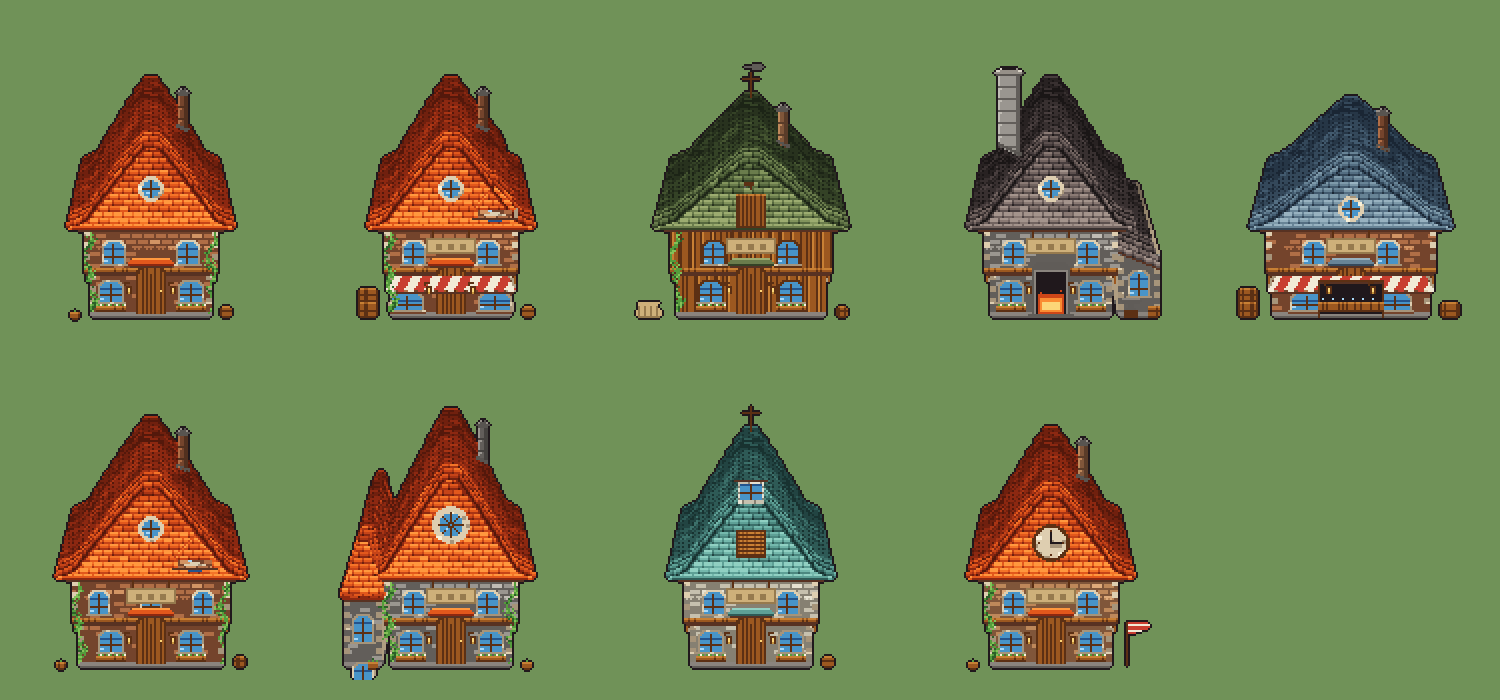
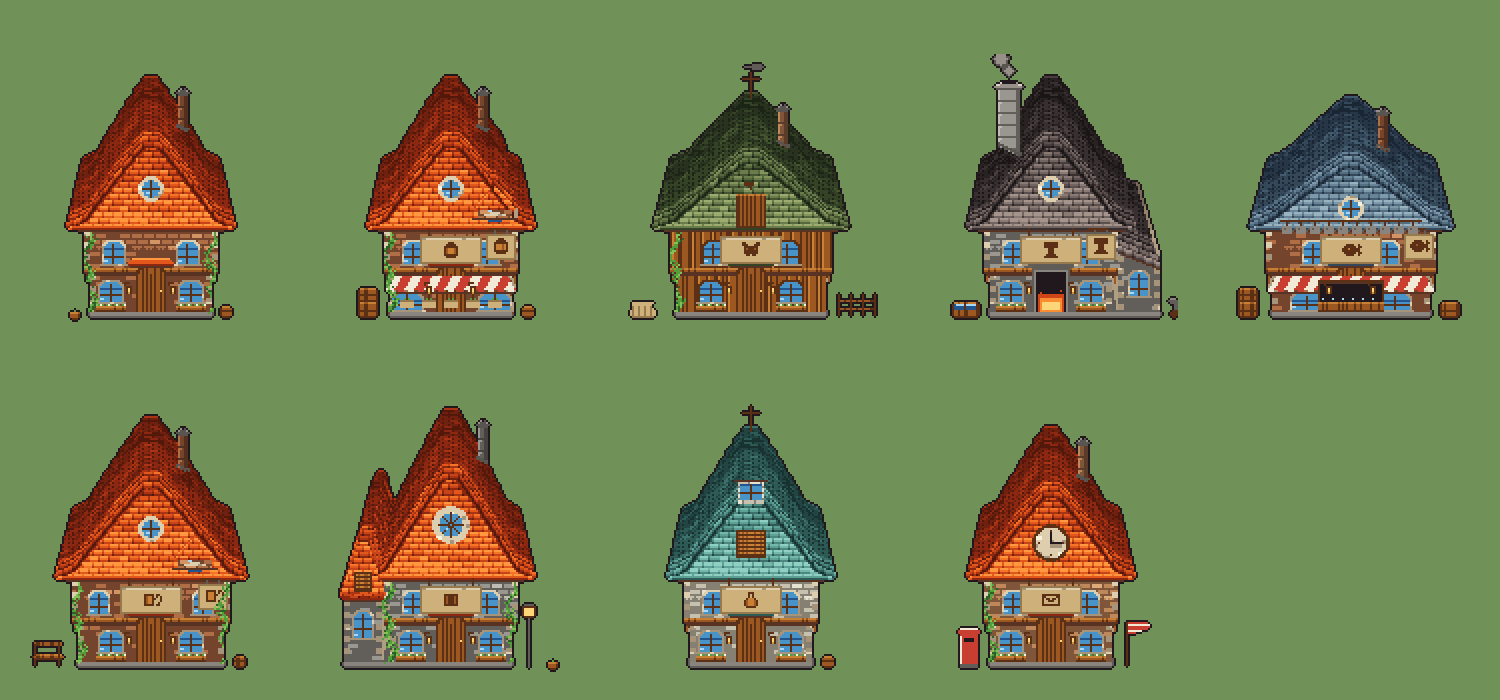
무슨 집인지 보이게 — 간판 그림과 그 집의 물건
색과 실루엣을 갈라도 「저건 대장간이다」는 안 보였다. 그건 재료가 아니라
**간판 그림과 문 앞의 물건**이 말한다. 마을에서 길 찾을 때 사람이 실제로
보는 게 그 둘이다.

간판 그림은 11x8칸 = 화면 22x16px. 이 크기에서 읽히려면 **덩어리 하나**로
그려야 한다 — 선으로 그리면 다 뭉개진다. 여덟 개를 그렸다:
망치 · 항아리 · 소 · 생선 · 맥주잔 · 책 · 플라스크 · 편지.
가게에는 벽에서 팔이 나온 **걸이 간판**도 달았다.

집마다 그 집의 물건을 놓았다:
  대장간    벌건 화구 + 굴뚝 연기 + 모루 + 담금질통 + 작업 곁채
  목장상회  울타리 + 건초더미 + 풍향계 + 다락문
  수산시장  문 대신 판매대 + 처마 밑에 널어 말리는 생선
  잡화점    차양 밑에 매달린 바구니 + 쌓아 둔 궤짝
  여관      문 앞 긴 의자
  도서관    가로등 (밤에 책 읽는 집) + 종탑 살창
  우체국    우체통 + 박공 시계 + 깃발
  연구소    옥탑 채광창 + 풍향계 (담쟁이 없음 — 깔끔해야 한다)
  우리집    간판이 없는 유일한 집

**옆으로 늘어난 만큼 주춧돌을 하나로 이었다.** 곁채·탑마다 따로 두면 밑에
틈이 생겨 두 채를 나란히 세운 것처럼 보인다 — 한 채의 집은 한 장의 땅 위에 선다.

두 군데가 캔버스 밖으로 나갔다: 탑 아래층 창이 주춧돌을 뚫고 땅속에 묻혔고,
대장간 연기가 화면 위로 잘렸다. 창은 한 층만, 굴뚝은 일곱 칸 낮췄다.

diff --git a/game/assets/ref/make_buildings.js b/game/assets/ref/make_buildings.js
@@ -729,13 +729,139 @@ function barrel(g, x, y) {
 }
 
 
-function sign(g, cx) {
-  const w = 24, x0 = cx - w / 2, y = EAVE + 5;
-  g.vline(x0 + 3, y - 4, y, 'T');
-  g.vline(x0 + w - 3, y - 4, y, 'T');
-  g.rect(x0, y, x0 + w, y + 7, 'B');
-  g.rect(x0 + 1, y + 1, x0 + w - 1, y + 6, 'b');
-  for (let i = 0; i < 3; i++) g.rect(x0 + 5 + i * 6, y + 3, x0 + 7 + i * 6, y + 5, 'B');
+// ---- 무슨 집인지 말하는 것들 ----
+//
+// 색과 실루엣을 갈라도 「저건 대장간이다」는 아직 안 보였다. 그건 재료가
+// 아니라 **간판 그림과 문 앞의 물건**이 말한다. 마을에서 길을 찾을 때
+// 사람이 실제로 보는 건 그 둘이다.
+//
+// 그림은 11x8칸 = 화면 22x16px. 이 크기에서 읽히려면 **덩어리 하나**로
+// 그려야 한다 — 선으로 그리면 다 뭉개진다.
+const ICON = {
+  hammer: ['..#######..', '..#######..', '..#######..', '....###....',
+           '....###....', '....###....', '...#####...', '..#######..'],
+  jar:    ['....###....', '...#####...', '..#######..', '..#ooooo#..',
+           '..#ooooo#..', '..#ooooo#..', '..#######..', '...#####...'],
+  cow:    ['.##.....##.', '.###...###.', '..#######..', '..#o###o#..',
+           '..#######..', '..#######..', '...##.##...', '...........'],
+  fish:   ['...........', '...####..#.', '..######.##', '.###o#####.',
+           '.#########.', '..######.##', '...####..#.', '...........'],
+  mug:    ['...........', '..#####.##.', '..#ooo#.#.#', '..#ooo##..#',
+           '..#ooo#...#', '..#ooo#..#.', '..#####.##.', '...........'],
+  book:   ['...........', '..#######..', '..#o###o#..', '..#o###o#..',
+           '..#o###o#..', '..#o###o#..', '..#######..', '...........'],
+  flask:  ['....###....', '....#.#....', '....#.#....', '...#ooo#...',
+           '..#ooooo#..', '..#ooooo#..', '..#ooooo#..', '...#####...'],
+  letter: ['...........', '.#########.', '.##.....##.', '.#.##.##.#.',
+           '.#..###..#.', '.#.......#.', '.#########.', '...........'],
+};
+
+function stampIcon(g, cx, cy, name, dark, lite) {
+  const a = ICON[name];
+  if (!a) return;
+  for (let y = 0; y < a.length; y++) for (let x = 0; x < a[y].length; x++) {
+    const c = a[y][x];
+    if (c === '.') continue;
+    g.px(cx - 5 + x, cy - 4 + y, c === 'o' ? lite : dark);
+  }
+}
+
+function sign(g, cx, icon) {
+  const w = 30, x0 = cx - w / 2, y = EAVE + 4;
+  g.vline(x0 + 4, y - 4, y, 'T');
+  g.vline(x0 + w - 4, y - 4, y, 'T');
+  g.rect(x0, y, x0 + w, y + 13, 'B');
+  g.rect(x0 + 1, y + 1, x0 + w - 1, y + 12, 'b');
+  g.hline(x0 + 1, x0 + w - 1, y + 1, 'x');                 // 판 윗변이 빛을 받는다
+  stampIcon(g, cx, y + 7, icon, 'T', 'u');
+}
+
+// 걸이 간판 — 벽에서 팔이 나와 판이 매달린다. 가게라는 표시로 이만한 게 없다
+function hangSign(g, x, y, icon) {
+  g.hline(x, x + 9, y, 'T');                               // 팔
+  g.px(x + 1, y + 1, 'T'); g.px(x + 2, y + 1, 'T');        // 버팀대
+  g.vline(x + 3, y + 1, y + 2, 'S'); g.vline(x + 9, y + 1, y + 2, 'S');
+  g.rect(x - 1, y + 3, x + 13, y + 15, 'B');
+  g.rect(x, y + 4, x + 12, y + 14, 'b');
+  stampIcon(g, x + 6, y + 9, icon, 'T', 'u');
+}
+
+// 연기 — 굴뚝에서 오르는 것. 대장간은 늘 불을 때고 있다
+function smoke(g, x, y) {
+  const puff = (px, py, r) => {
+    for (let dy = -r; dy <= r; dy++) for (let dx = -r; dx <= r; dx++)
+      if (Math.hypot(dx, dy) <= r + 0.3)
+        g.px(px + dx, py + dy, Math.hypot(dx, dy) > r - 1 ? 'p5' : 'p4');
+  };
+  puff(x, y, 3); puff(x - 4, y - 6, 4); puff(x + 2, y - 13, 5);
+}
+
+// 담금질통 — 대장간 앞. 벌겋게 단 쇠를 식히는 물통
+function trough(g, x, y) {
+  g.rect(x, y - 7, x + 13, y, 't');
+  g.hline(x, x + 13, y - 7, 'u');
+  g.hline(x, x + 13, y, 'T');
+  g.rect(x + 1, y - 6, x + 12, y - 4, 'G');                // 물
+  g.hline(x + 2, x + 11, y - 6, 'e');
+  for (let i = x; i <= x + 13; i += 6) g.vline(i, y - 7, y, 'T');
+}
+
+// 울타리 — 목장 상회 앞. 가로 두 줄에 말뚝
+function fence(g, x0, x1, y) {
+  g.hline(x0, x1, y - 8, 't');
+  g.hline(x0, x1, y - 4, 't');
+  for (let x = x0; x <= x1; x += 6) { g.vline(x, y - 11, y, 'T'); g.px(x, y - 12, 'T'); }
+}
+
+// 널어 말리는 생선 — 수산시장. 이 한 줄이면 무슨 가게인지 끝난다
+function fishLine(g, x0, x1, y) {
+  g.hline(x0, x1, y, 'T');
+  for (let x = x0 + 3; x < x1; x += 7) {
+    g.vline(x, y + 1, y + 2, 'T');
+    g.rect(x - 2, y + 3, x + 2, y + 6, 's');
+    g.px(x - 3, y + 4, 'S'); g.px(x + 3, y + 5, 'S');      // 꼬리
+    g.px(x - 1, y + 4, 'S');                                // 눈
+  }
+}
+
+// 우체통 — 우체국 앞. 빨간 기둥에 투입구
+function mailbox(g, x, y) {
+  g.rect(x, y - 16, x + 8, y, 'A');
+  g.vline(x, y - 16, y, 'a');
+  g.rect(x - 1, y - 19, x + 9, y - 16, 'A');
+  g.hline(x - 1, x + 9, y - 19, 'a');
+  g.rect(x + 2, y - 14, x + 6, y - 13, 'O');               // 투입구
+  g.rect(x - 1, y - 1, x + 9, y, 'S');
+}
+
+// 가로등 — 도서관 앞. 밤에 책 읽는 집이라는 표시
+function lamppost(g, x, y) {
+  g.vline(x, y - 24, y, 'S');
+  g.rect(x - 1, y - 1, x + 1, y, 'S');
+  g.rect(x - 3, y - 30, x + 3, y - 25, 'T');
+  g.rect(x - 2, y - 29, x + 2, y - 26, 'y');
+  g.hline(x - 3, x + 3, y - 31, 'S');
+  g.px(x, y - 32, 'S');
+}
+
+// 긴 의자 — 여관 앞. 앉아 쉬는 집
+function bench(g, x, y) {
+  g.rect(x, y - 6, x + 15, y - 4, 't');
+  g.hline(x, x + 15, y - 6, 'u');
+  g.hline(x, x + 15, y - 4, 'T');
+  for (const i of [x + 1, x + 13]) g.vline(i, y - 3, y, 'T');
+  g.rect(x, y - 12, x + 15, y - 11, 't');                  // 등받이
+  for (const i of [x + 1, x + 13]) g.vline(i, y - 11, y - 6, 'T');
+}
+
+// 매달린 바구니 — 잡화점 차양 밑에 주렁주렁
+function baskets(g, x0, x1, y) {
+  for (let x = x0; x <= x1; x += 11) {
+    g.vline(x, y, y + 2, 'T');
+    g.rect(x - 3, y + 3, x + 3, y + 6, 'b');
+    g.hline(x - 3, x + 3, y + 3, 'B');
+    g.px(x - 1, y + 2, 'n'); g.px(x + 1, y + 2, 'n');      // 삐져나온 잎
+  }
 }
 
 
@@ -889,8 +1015,10 @@ function tower(g, cx, wallTop) {
   }
   g.hline(a - 2, b + 2, wallTop, 'R');
   g.hline(a - 1, b + 1, wallTop + 1, SHADE);
-  archWin(g, cx - 5, wallTop + 8, 11, 15, false);
-  archWin(g, cx - 5, wallTop + 32, 11, 15, false);
+  // 창은 **바닥선 안쪽에서** 끝나야 한다. 두 층으로 넣었더니 아래 창이
+  // 주춧돌을 뚫고 내려가 땅속에 반쯤 묻혔다
+  archWin(g, cx - 5, wallTop + 6, 11, 15, false);
+  louver(g, cx, rt + 15, 9, 9);                            // 종탑 살창
 }
 
 // 풍향계 — 용마루 위에 꽂는 것. 한 줄짜리지만 하늘로 삐죽 나와서
@@ -1111,17 +1239,27 @@ function build(spec) {
   }
 
   // ---- 실루엣을 가르는 덩어리 (extrude 앞에 — 뒤 지붕까지 같이 생긴다) ----
+  let footL = X0, footR = X1;                              // 발자국 좌우 끝
   if (spec.dormer) dormer(g, CX + 22, EAVE - 6);
   if (spec.lean) {
     const r = spec.lean === 'right';
-    leanTo(g, r ? X1 + JUT + 1 : X0 - JUT - 21, r ? X1 + JUT + 21 : X0 - JUT - 1,
-      MID - 16);
+    const a = r ? X1 + JUT + 1 : X0 - JUT - 21, b = r ? X1 + JUT + 21 : X0 - JUT - 1;
+    leanTo(g, a, b, MID - 16);
+    footL = Math.min(footL, a); footR = Math.max(footR, b);
   }
   if (spec.tower) {
     const r = spec.tower === 'right';
-    tower(g, r ? X1 + JUT + 11 : X0 - JUT - 11, EAVE + 10);
+    const c = r ? X1 + JUT + 11 : X0 - JUT - 11;
+    tower(g, c, EAVE + 10);
+    footL = Math.min(footL, c - 9); footR = Math.max(footR, c + 9);
   }
   if (spec.stall) stall(g, CX - 16, CX + 16, GROUND);
+  // 옆으로 늘어난 만큼 **주춧돌을 하나로 잇는다.** 덩어리마다 따로 두면
+  // 밑에 틈이 생겨서 두 채를 나란히 세워 놓은 것처럼 보인다 — 한 채의
+  // 집은 한 장의 땅 위에 선다
+  g.rect(footL, GROUND - 2, footR, GROUND, 'S');
+  g.rect(footL, GROUND - 2, footR, GROUND - 1, 's');
+  g.hline(footL - 1, footR + 1, GROUND, 'S');
 
   extrude(g);                                              // 뒤로 눕는 지붕
   if (spec.cupola) cupola(g, CX, RIDGE + 2);
@@ -1130,7 +1268,7 @@ function build(spec) {
   if (spec.chim !== 'none') {
     const big = spec.chim === 'big';
     chimney(g, spec.chimneyX !== undefined ? spec.chimneyX : CX + 14,
-      RIDGE - (big ? 40 : 30), RIDGE - (big ? 2 : 11), !big, big ? 11 : 5);
+      RIDGE - (big ? 33 : 30), RIDGE - (big ? 2 : 11), !big, big ? 11 : 5);
   }
 
   // ---- 살림 ----
@@ -1144,9 +1282,18 @@ function build(spec) {
     else if (kind === 'crate2') crate(g, px, GROUND - 8, 6);
     else if (kind === 'hay') hay(g, px, GROUND);
     else if (kind === 'anvil') anvil(g, px, GROUND);
+    else if (kind === 'trough') trough(g, px, GROUND);
+    else if (kind === 'mailbox') mailbox(g, px, GROUND);
+    else if (kind === 'lamppost') lamppost(g, px, GROUND);
+    else if (kind === 'bench') bench(g, px, GROUND);
+    else if (kind === 'fence') fence(g, px, px + 26, GROUND);
   }
   if (spec.flag) flag(g, X1 + JUT + 5, GROUND);
-  if (spec.sign) sign(g, CX);
+  if (spec.sign) sign(g, CX, spec.icon);
+  if (spec.hang) hangSign(g, X1 + JUT - 14, MID - 22, spec.icon);
+  if (spec.baskets) baskets(g, CX - 22, CX + 22, MID + 11);
+  if (spec.fishLine) fishLine(g, X0 + 4, X1 - 4, MID - 26);
+  if (spec.smoke) smoke(g, (spec.chimneyX || CX) + 5, RIDGE - 39);
   // 담쟁이는 **맨 마지막**에. 창틀·간판 위로 조금 넘어가야 자란 것처럼 보인다
   const iv = spec.ivy === undefined ? 2 : spec.ivy;
   if (iv >= 1) ivy(g, X0 - JUT + 2, GROUND - 3, EAVE + 3);
@@ -1172,44 +1319,47 @@ function build(spec) {
 //
 // props 의 숫자는 벽에서의 거리다. 음수면 왼쪽 벽 바깥, 양수면 오른쪽.
 const KINDS = {
-  // 우리집 — 기준. 담쟁이가 양쪽을 타고 오르고 창밑에 꽃상자.
-  // 아무 혹도 없는 게 우리집의 특징이다 (마을에서 제일 평범한 집)
+  // 우리집 — 간판이 없는 유일한 집. 담쟁이와 꽃상자
   house: { props: [['planter', -7], ['barrel', 2]] },
 
-  // 잡화점 — 넓은 줄무늬 차양에 진열창이 크다. 궤짝을 쌓아 뒀다
-  house_general: { sign: true, awning: 2, bigWin: true, ivy: 1, dormer: true,
+  // 잡화점 — 항아리 간판. 차양 밑에 바구니가 주렁주렁, 궤짝을 쌓아 뒀다
+  house_general: { sign: true, icon: 'jar', hang: true, awning: 2, bigWin: true,
+    baskets: true, dormer: true, ivy: 1,
     props: [['crate', -13], ['crate2', -13], ['barrel', 3]] },
 
-  // 목장 상회 — 널판 벽에 다락문. 헛간처럼 넓고 낮다. 옆에 건초더미
-  house_ranch: { sign: true, wall: 'plank', wallPal: 'warm', roofPal: 'moss',
-    w: 7, pitch: -8, gable: 'loft', ivy: 1, vane: true,
-    props: [['hay', -17], ['barrel', 3]] },
+  // 목장 상회 — 소 간판. 앞에 울타리와 건초더미. 널판 벽, 다락문, 풍향계
+  house_ranch: { sign: true, icon: 'cow', wall: 'plank', wallPal: 'warm',
+    roofPal: 'moss', w: 7, pitch: -8, gable: 'loft', vane: true, ivy: 1,
+    props: [['hay', -20], ['fence', 4]] },
 
-  // 대장간 — 굴뚝이 주인공이다. 그을린 지붕, 문 대신 화구, 앞에 모루
-  house_smith: { sign: true, roofPal: 'soot', wallPal: 'stone',
-    chim: 'big', chimneyX: 38, forge: true, ivy: 0, lean: 'right',
-    props: [['anvil', 3], ['barrel', 16]] },
+  // 대장간 — 망치 간판. 화구가 벌겋고 굴뚝에서 연기가 오른다.
+  // 앞에는 모루와 담금질통, 옆에는 작업 곁채
+  house_smith: { sign: true, icon: 'hammer', hang: true, roofPal: 'soot',
+    wallPal: 'stone', chim: 'big', chimneyX: 38, smoke: true, forge: true,
+    lean: 'right', ivy: 0,
+    props: [['anvil', 26], ['trough', -16]] },
 
-  // 수산시장 — 제일 낮고 넓다. 청회색 지붕에 큰 차양, 생선궤짝
-  house_fish: { sign: true, roofPal: 'slate', awning: 2, w: 9, pitch: -10,
-    bigWin: true, ivy: 0, stall: true,
+  // 수산시장 — 생선 간판. 처마 밑에 생선을 널어 말리고, 문 대신 판매대
+  house_fish: { sign: true, icon: 'fish', hang: true, roofPal: 'slate',
+    awning: 2, w: 9, pitch: -10, bigWin: true, stall: true, fishLine: true, ivy: 0,
     props: [['crate', -14], ['crate2', -14], ['crate', 3]] },
 
-  // 여관 — 제일 크다. 2층 창이 셋, 큰 간판, 담쟁이도 무성하다
-  house_inn: { sign: true, w: 6, pitch: 5, win3: true, dormer: true,
-    props: [['barrel', 3], ['planter', -8]] },
+  // 여관 — 맥주잔 간판. 문 앞에 긴 의자. 제일 크고 2층 창이 셋
+  house_inn: { sign: true, icon: 'mug', hang: true, w: 6, pitch: 5, win3: true,
+    dormer: true, props: [['bench', -20], ['barrel', 3]] },
 
-  // 도서관 — 회색 돌벽에 뾰족한 지붕. 박공에 장미창
-  house_library: { sign: true, wallPal: 'stone', pitch: 9, gable: 'rose', tower: 'left',
-    props: [['planter', -8], ['planter', 3]] },
+  // 도서관 — 책 간판. 앞에 가로등(밤에 책 읽는 집). 돌벽, 뾰족 지붕, 장미창
+  house_library: { sign: true, icon: 'book', wallPal: 'stone', pitch: 9,
+    gable: 'rose', tower: 'left', props: [['lamppost', 6], ['planter', 16]] },
 
-  // 연금 연구소 — 청동 지붕에 옥탑 채광창. 담쟁이는 없다(깔끔해야 한다)
-  house_lab: { sign: true, roofPal: 'copper', wallPal: 'pale', gable: 'vent',
-    cupola: true, chim: 'none', ivy: 0, vane: true, props: [['barrel', 3]] },
+  // 연금 연구소 — 플라스크 간판. 청동 지붕에 옥탑 채광창. 담쟁이는 없다
+  house_lab: { sign: true, icon: 'flask', roofPal: 'copper', wallPal: 'pale',
+    gable: 'vent', cupola: true, chim: 'none', vane: true, ivy: 0,
+    props: [['barrel', 3]] },
 
-  // 우체국 — 박공에 시계, 옆에 깃발
-  house_post: { sign: true, wallPal: 'warm', gable: 'clock', flag: true, ivy: 1,
-    props: [['planter', -8]] },
+  // 우체국 — 편지 간판에 박공 시계, 깃발, 문 앞에 우체통
+  house_post: { sign: true, icon: 'letter', wallPal: 'warm', gable: 'clock',
+    flag: true, ivy: 1, props: [['mailbox', -12]] },
 };
 
 let n = 0;
